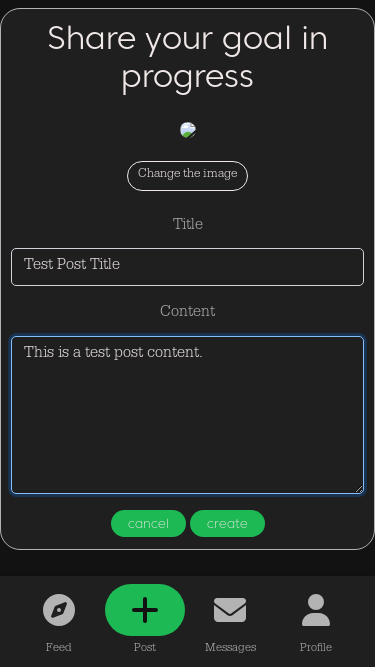
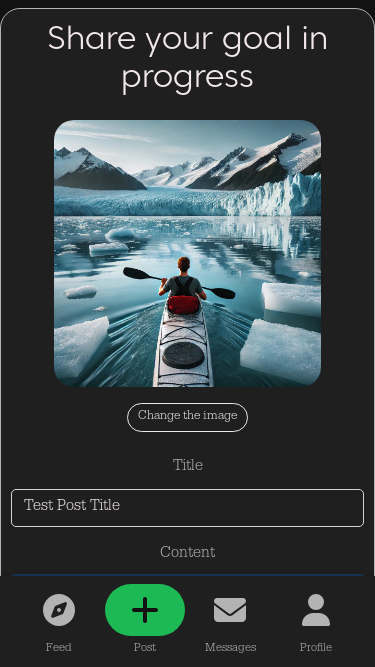
Enhance image upload verification in create post test
- Add file existence check before upload
- Implement manual change event triggering
- Add detailed logging for image preview visibility and attributes
- Improve error handling and add more targeted screenshots
- Refine navigation check after form submission

diff --git a/frontend/playwright/validation-tests/createPost.spec.js b/frontend/playwright/validation-tests/createPost.spec.js
@@ -8,7 +8,6 @@ const IMAGE_URL = 'https://res.cloudinary.com/dh5lpihx1/image/upload/v1725533889
 
 test.describe('Create Post Process', () => {
   test('Validate create post form and capture alerts', async ({ page }) => {
-    // Login before the test
     await login(page);
 
     console.log(`Navigating to ${BASE_URL}/posts/create`);
@@ -16,7 +15,6 @@ test.describe('Create Post Process', () => {
 
     console.log('Starting create post validation tests');
 
-    // Wait for the form to be visible
     await page.waitForSelector('form', { state: 'visible' });
 
     // Test: Empty submission
@@ -36,7 +34,7 @@ test.describe('Create Post Process', () => {
     expect(error).toBeTruthy();
     console.log('Verified error message presence for empty submission');
 
-    // Test: Fill in title and content
+    // Fill in title and content
     console.log('Filling in title and content');
     await page.fill('input[name="title"]', 'Test Post Title');
     await page.fill('textarea[name="content"]', 'This is a test post content.');
@@ -65,15 +63,48 @@ test.describe('Create Post Process', () => {
 
     // Use a real image file
     const imagePath = path.join(__dirname, './test-assets/test-image.jpg');
+    console.log('Image path:', imagePath);
+    
+    // Check if file exists
+    if (fs.existsSync(imagePath)) {
+      console.log('Image file exists');
+    } else {
+      console.error('Image file does not exist');
+      throw new Error('Image file not found');
+    }
+
     await fileInput.setInputFiles(imagePath);
+
+    // Trigger change event
+    await page.evaluate(() => {
+      const input = document.querySelector('input[type="file"]#image-upload');
+      input.dispatchEvent(new Event('change', { bubbles: true }));
+    });
 
     // Verify image upload
     console.log('Verifying image upload');
     try {
-      await page.waitForSelector(`img:not([src=""])`, { state: 'visible', timeout: 5000 });
-      console.log('Image preview found');
+      // Wait for the "Change the image" button to appear
+      await page.waitForSelector('label:has-text("Change the image")', { state: 'visible', timeout: 5000 });
+      console.log('Change image button found');
+
+      // Check if the image preview is visible
+      const imagePreview = await page.$('img.Image');
+      if (imagePreview) {
+        const isVisible = await imagePreview.isVisible();
+        console.log('Image preview visible:', isVisible);
+        
+        if (isVisible) {
+          const src = await imagePreview.getAttribute('src');
+          console.log('Image preview src:', src);
+        }
+      } else {
+        console.log('Image preview element not found');
+      }
+
+      await captureScreenshot(page, 'create-post', 'image-uploaded');
     } catch (error) {
-      console.error('Image preview not found:', error);
+      console.error('Image upload verification failed:', error);
       await captureScreenshot(page, 'create-post', 'image-upload-failed');
       throw error;
     }
